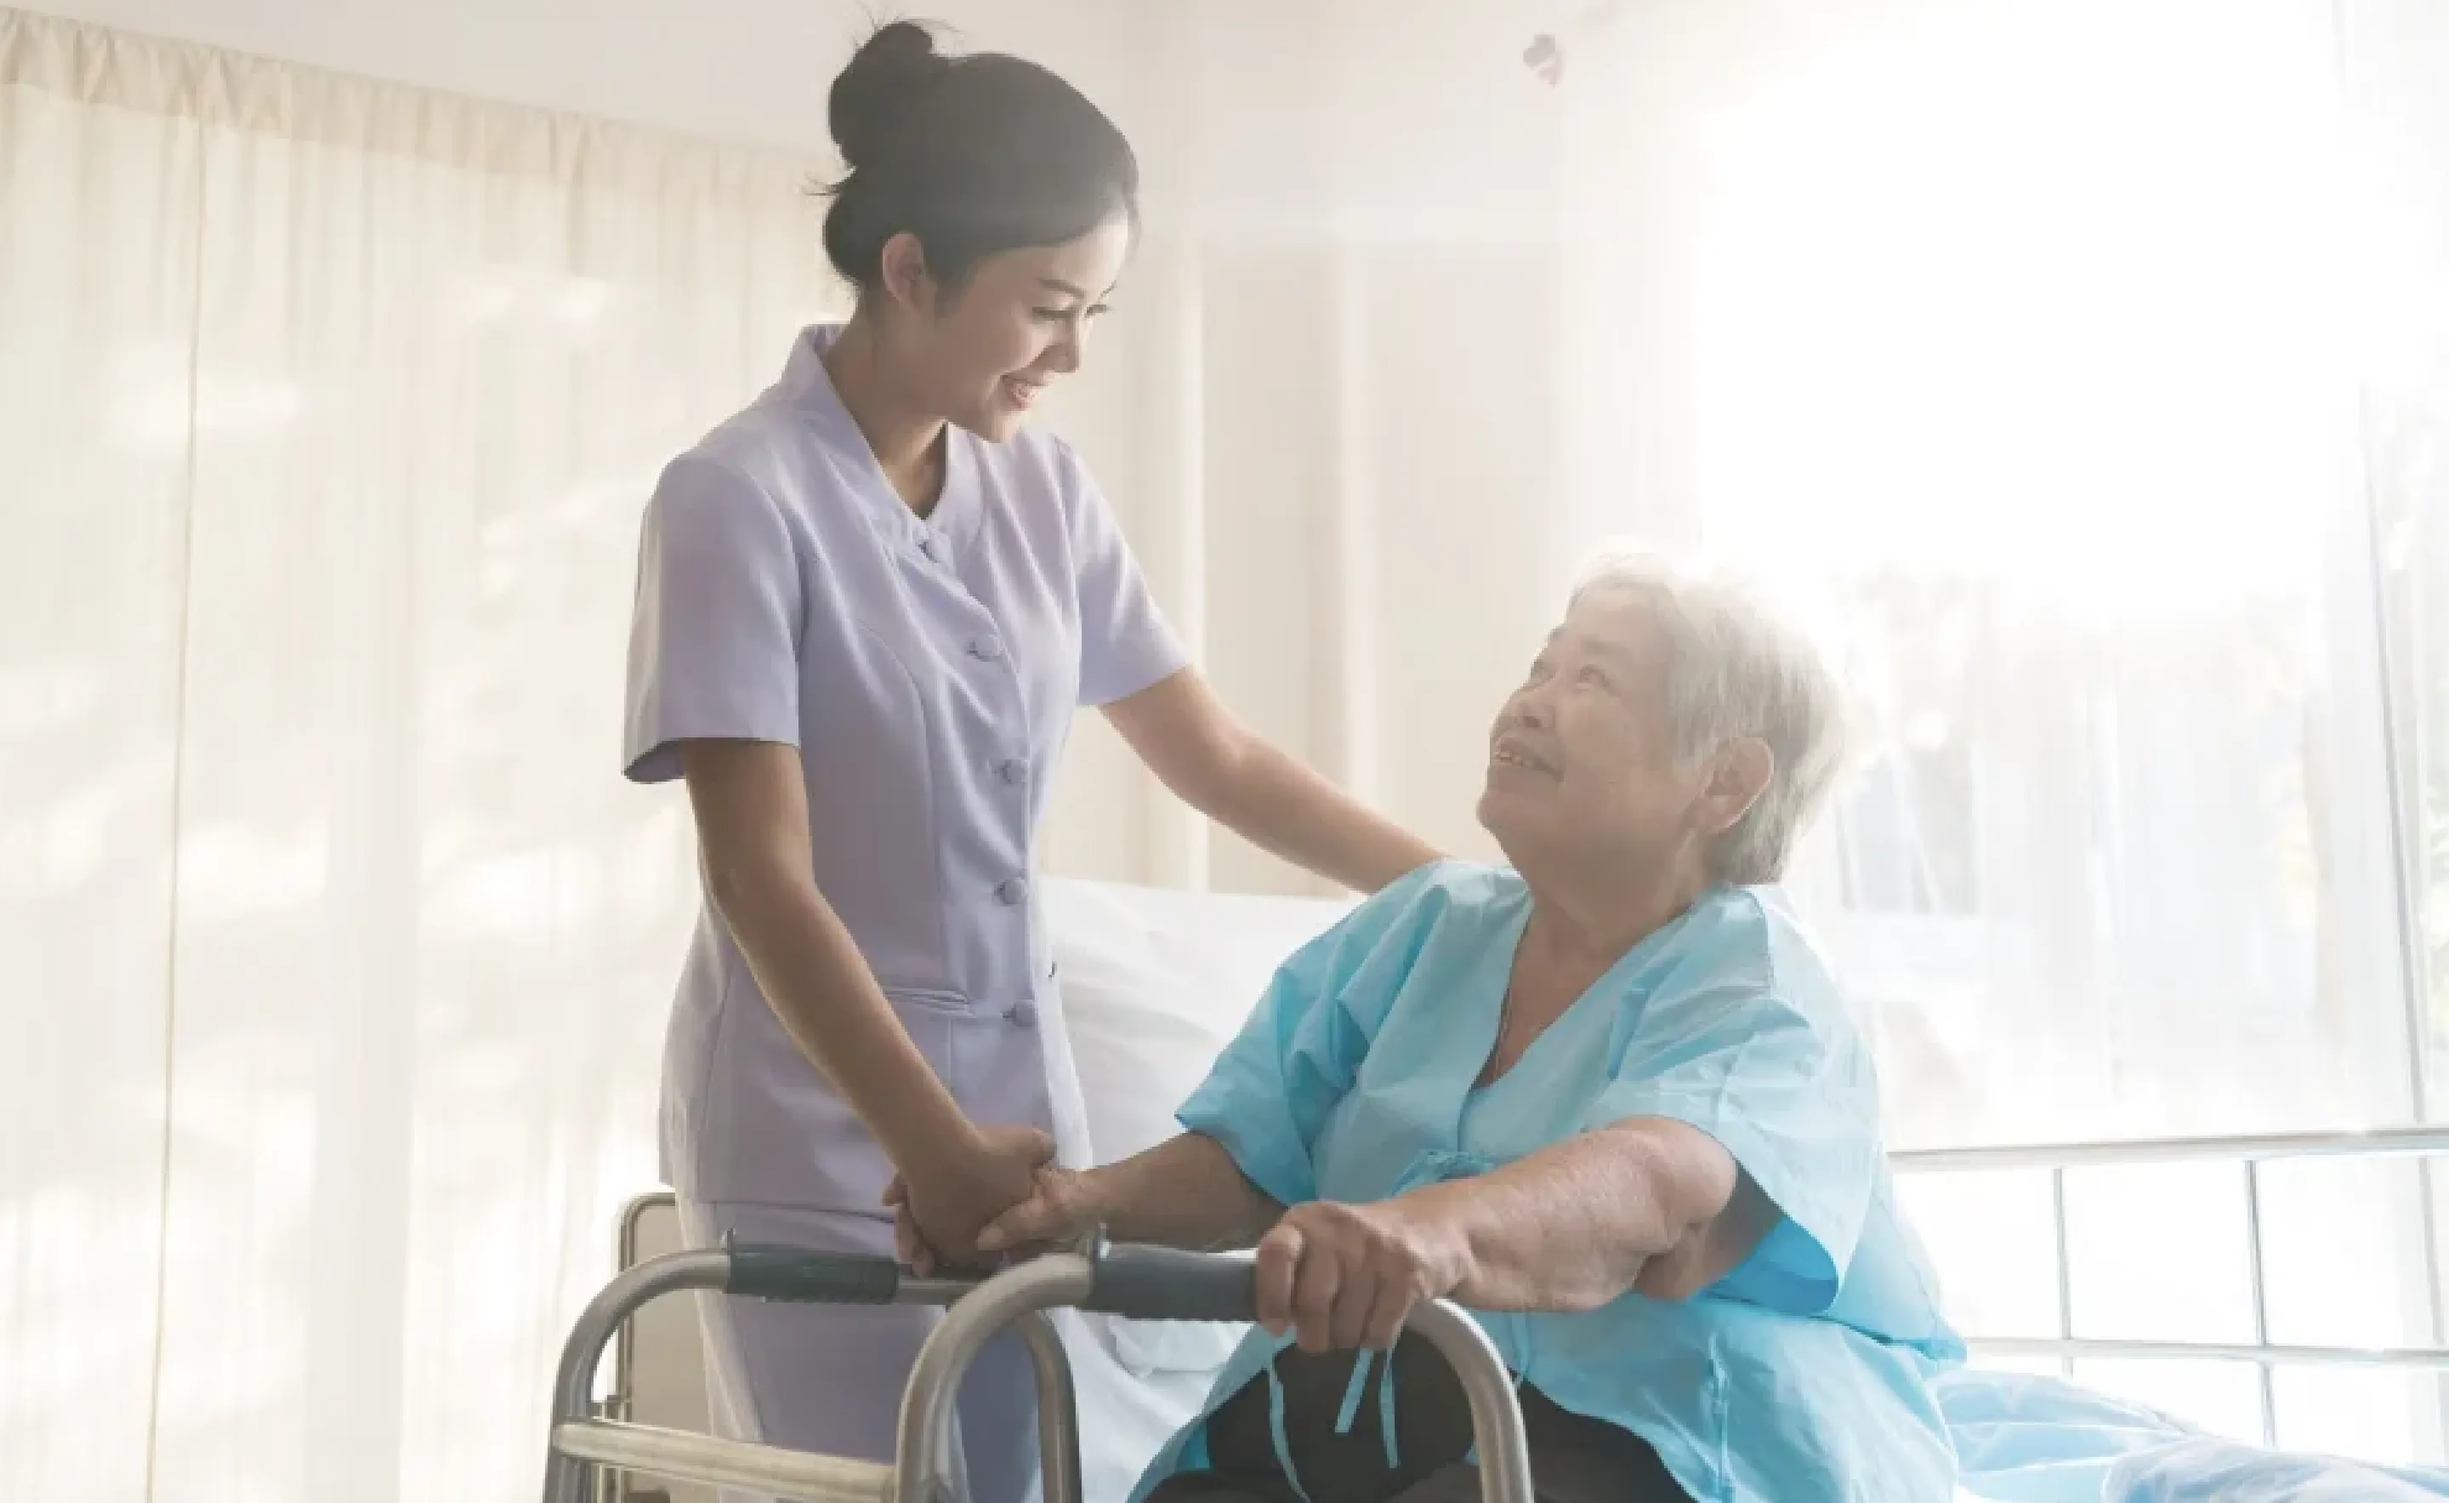
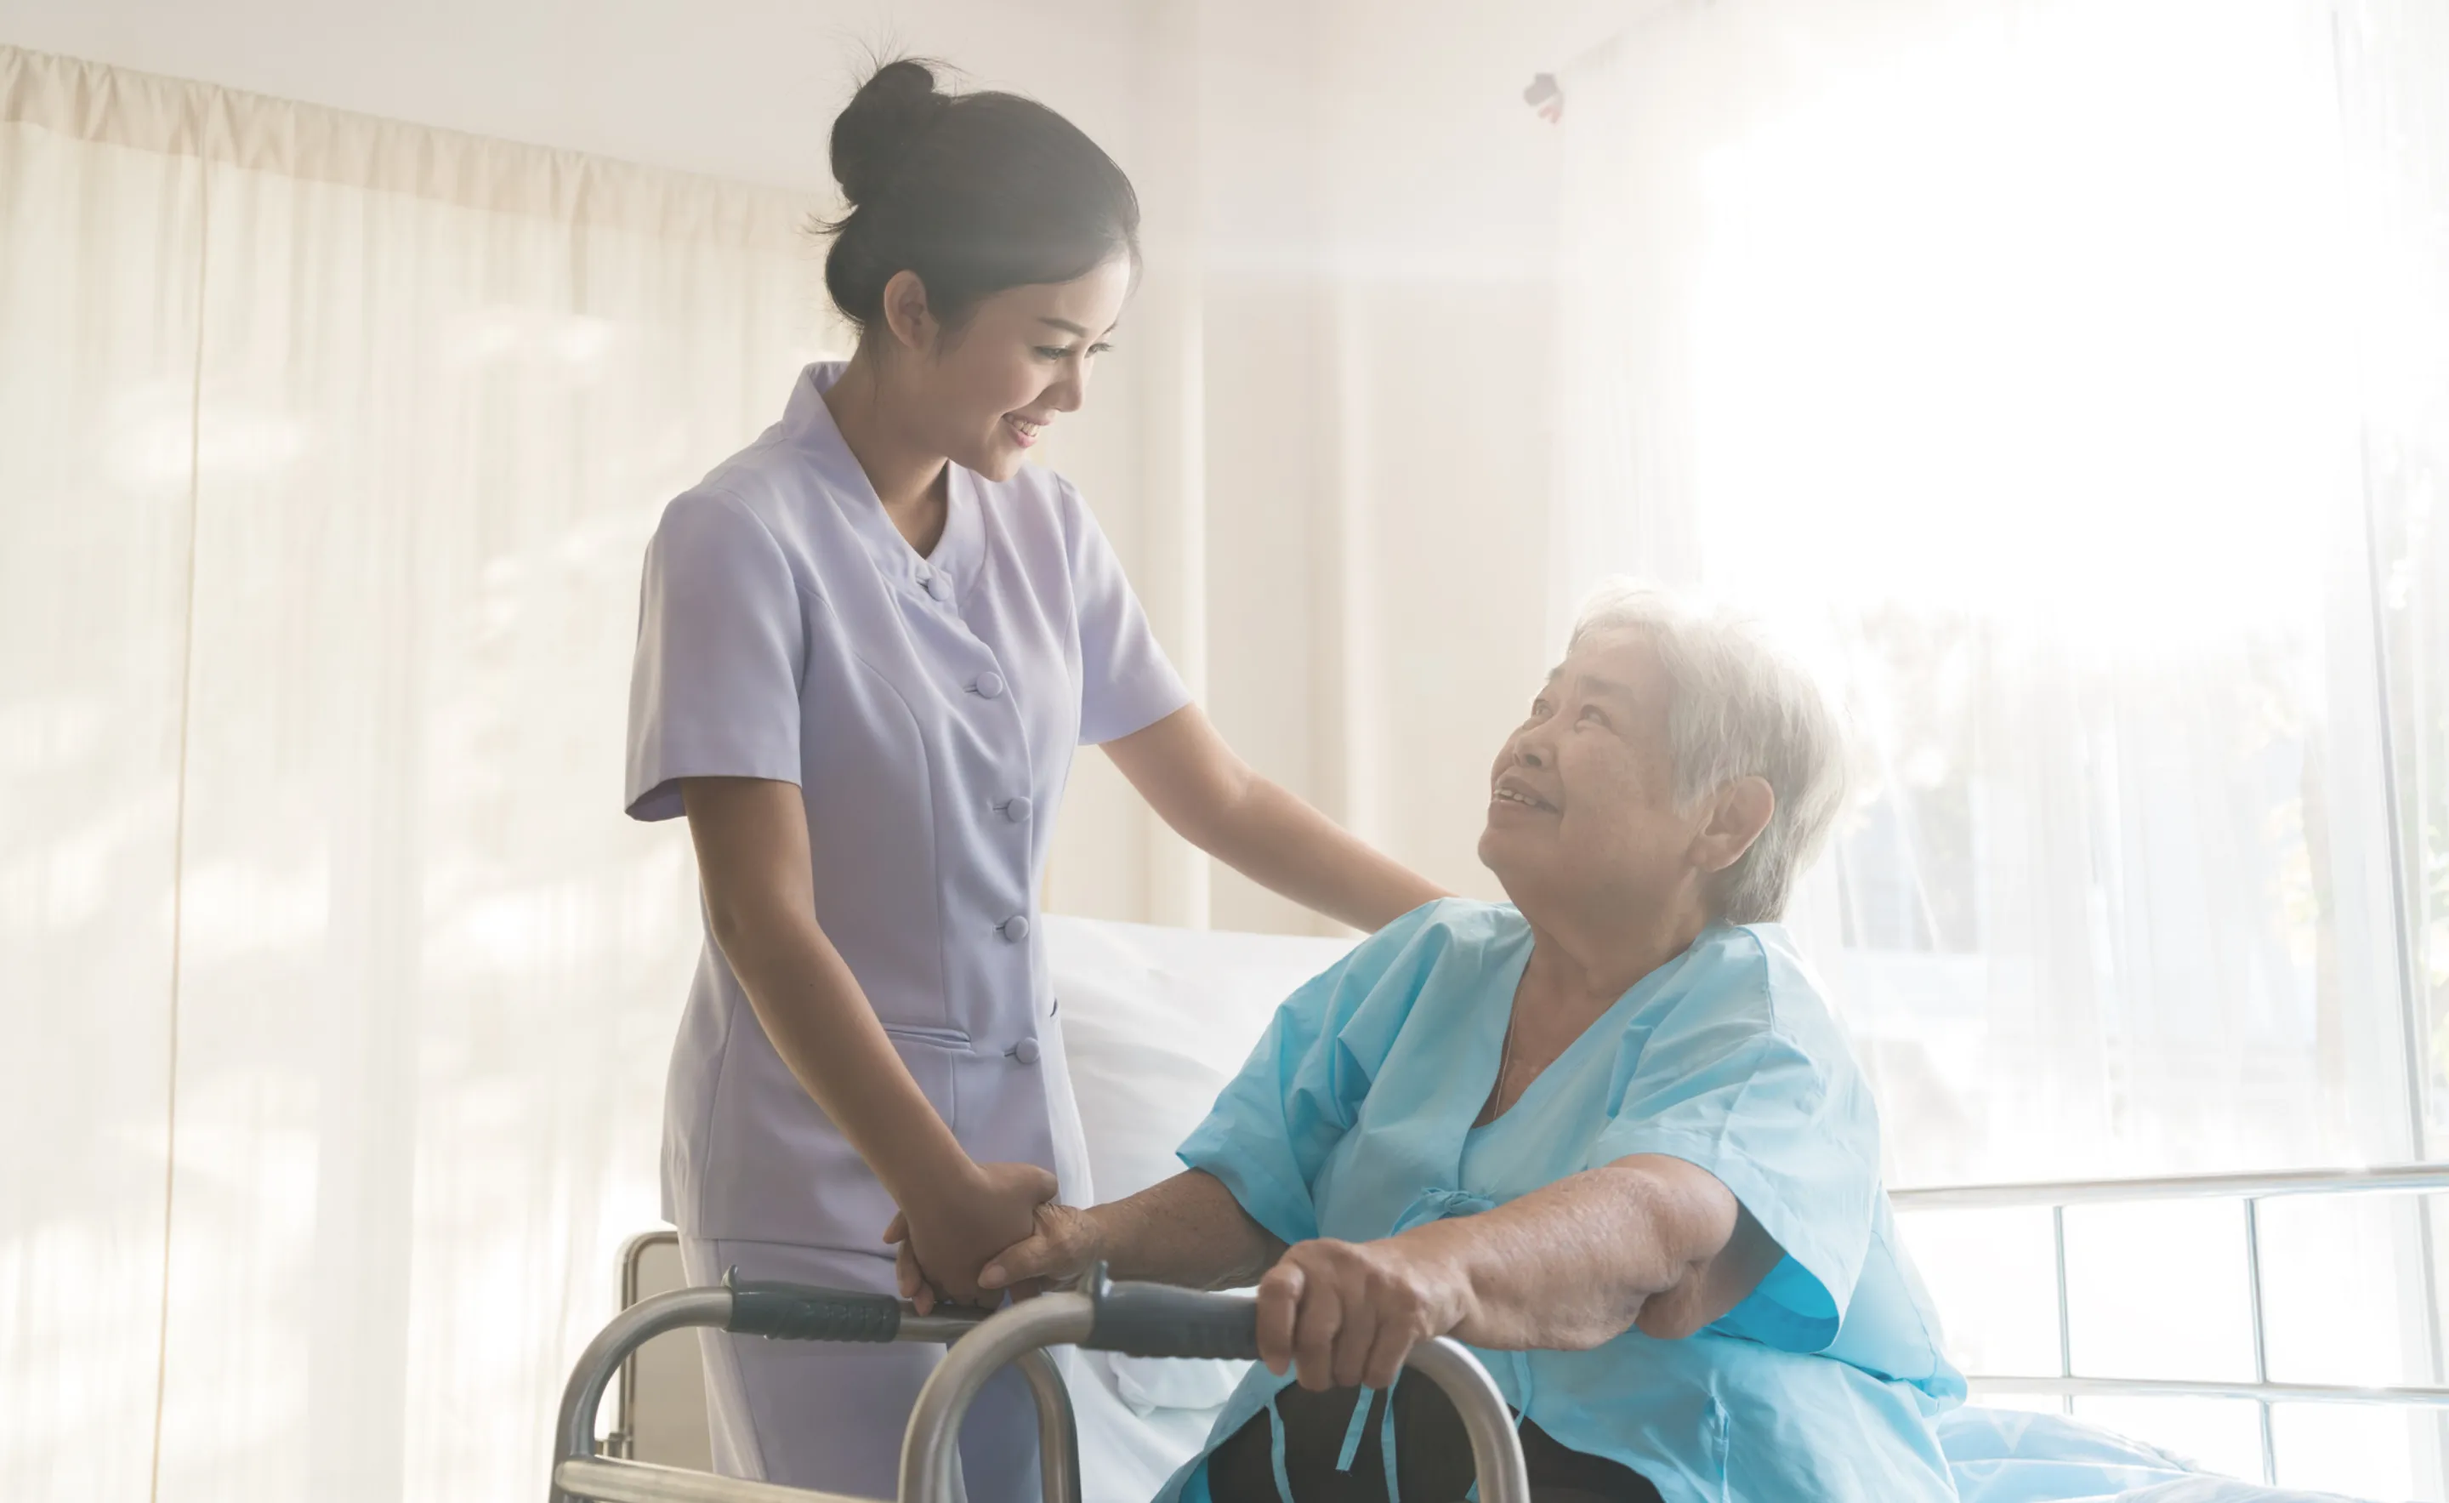
chore: update hero image of project

diff --git a/pages/project/pc.tsx b/pages/project/pc.tsx
@@ -1,5 +1,6 @@
 import Image from 'next/image'
-import { default as HeroImage, default as Result1 } from '/public/image/pc/testimonial-1.webp'
+import HeroImage from '/public/image/pc/hero-image.webp'
+import Result1 from '/public/image/pc/testimonial-1.webp'
 import Result2 from '/public/image/pc/testimonial-2.webp'
 import Result3 from '/public/image/pc/testimonial-3.webp'
 
